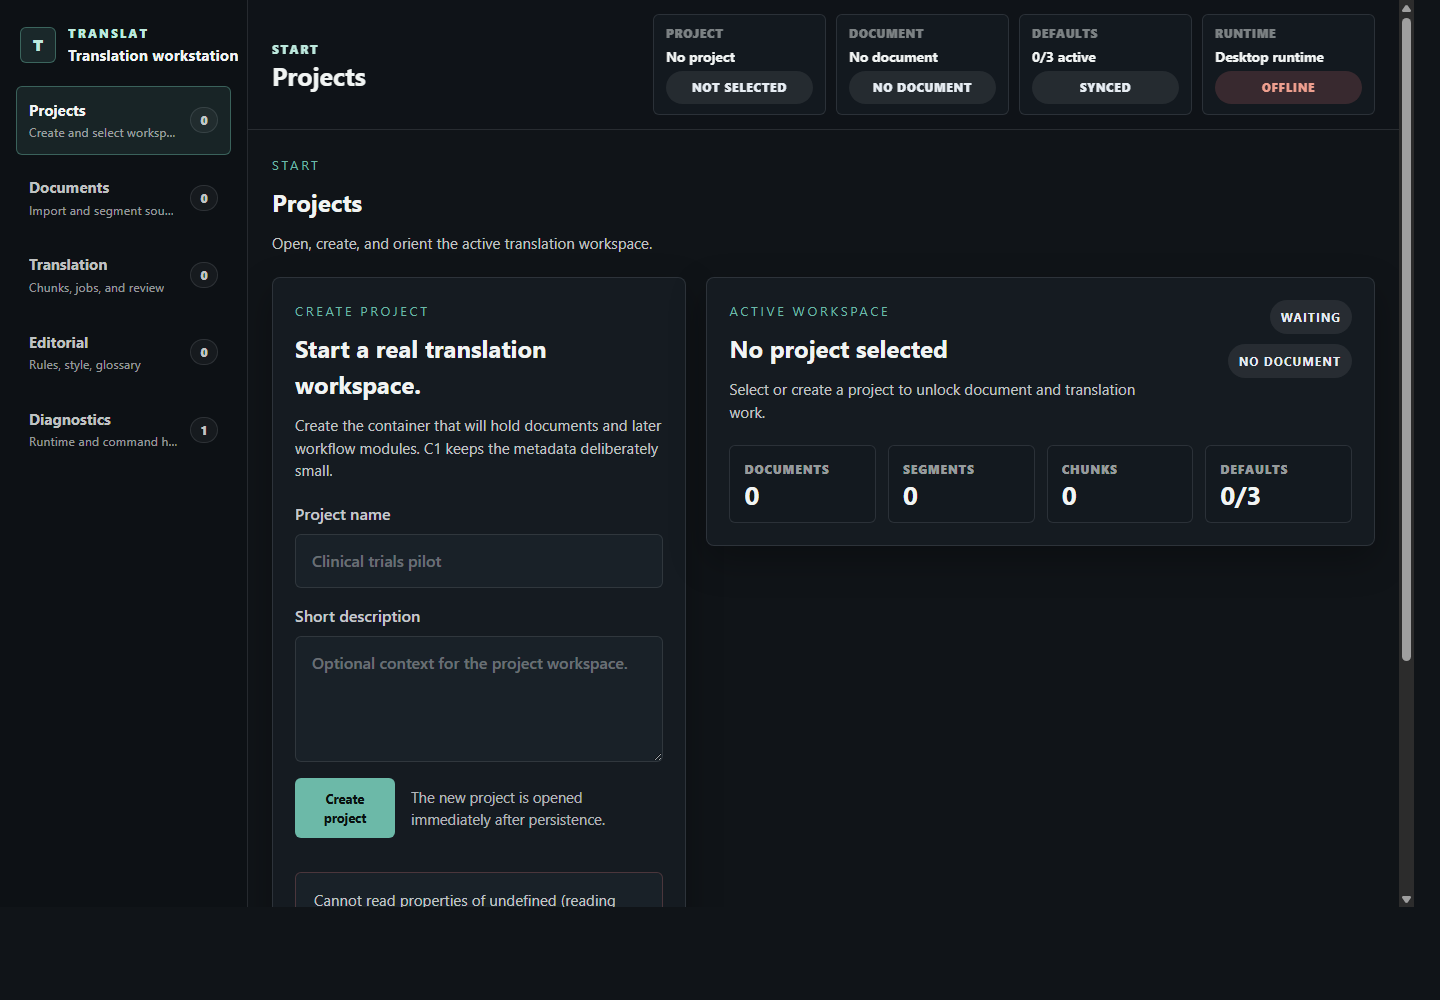
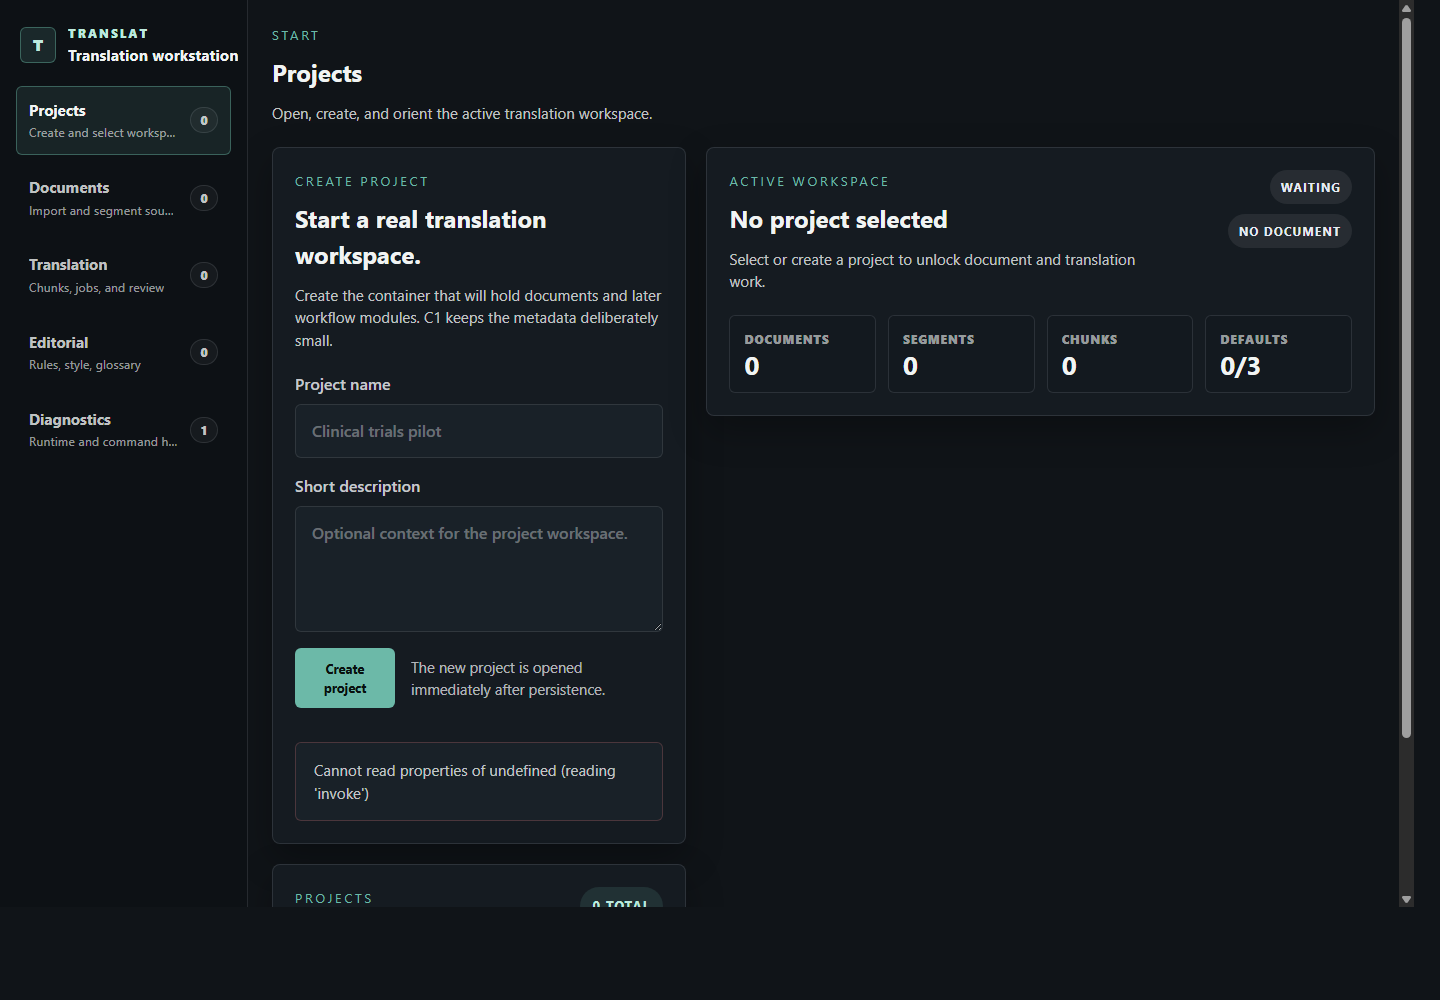
Remove TR-34 shell context noise

diff --git a/src/frontend/styles.css b/src/frontend/styles.css
@@ -80,6 +80,7 @@ select {
 }
 
 .surface-card {
+  min-width: 0;
   border: 1px solid var(--color-border-default);
   border-radius: var(--radius-lg);
   background: var(--color-bg-elevated);
@@ -131,6 +132,7 @@ select {
   margin: 12px 0 0;
   color: var(--color-text-secondary);
   font-size: var(--font-size-body);
+  overflow-wrap: anywhere;
 }
 
 .panel-header__aside {
@@ -151,6 +153,7 @@ select {
 .surface-card__copy {
   margin: 16px 0 0;
   color: var(--color-text-secondary);
+  overflow-wrap: anywhere;
 }
 
 .surface-card--accent {
@@ -288,46 +291,6 @@ select {
   text-align: center;
 }
 
-.app-shell__runtime {
-  display: flex;
-  gap: 10px;
-  align-items: center;
-  min-width: 0;
-  padding: 14px 4px 0;
-  border-top: 1px solid var(--color-border-default);
-  color: var(--color-text-secondary);
-}
-
-.app-shell__runtime strong,
-.app-shell__runtime small {
-  display: block;
-  overflow: hidden;
-  text-overflow: ellipsis;
-  white-space: nowrap;
-}
-
-.app-shell__runtime strong {
-  color: var(--color-text-primary);
-  font-size: 0.86rem;
-}
-
-.app-shell__runtime small {
-  color: var(--color-text-muted);
-  font-size: 0.76rem;
-}
-
-.app-shell__runtime-dot {
-  width: 9px;
-  height: 9px;
-  flex: 0 0 auto;
-  border-radius: 999px;
-  background: var(--color-danger);
-}
-
-.app-shell__runtime-dot[data-online="true"] {
-  background: var(--color-success);
-}
-
 .app-shell__main {
   min-width: 0;
 }
@@ -336,12 +299,8 @@ select {
   position: sticky;
   top: 0;
   z-index: 5;
-  display: grid;
-  grid-template-columns: minmax(180px, 0.5fr) minmax(0, 1fr);
-  gap: 20px;
-  align-items: center;
-  min-height: 88px;
-  padding: 14px 24px;
+  min-height: 72px;
+  padding: 16px 24px;
   border-bottom: 1px solid var(--color-border-default);
   background: rgba(16, 20, 24, 0.96);
 }
@@ -360,51 +319,17 @@ select {
   text-transform: uppercase;
 }
 
-.app-shell__context-strip {
-  display: grid;
-  grid-template-columns: repeat(4, minmax(0, 1fr));
-  gap: 10px;
-}
-
-.app-shell__context-item {
-  display: grid;
-  min-width: 0;
-  gap: 4px;
-  padding: 10px 12px;
-  border: 1px solid var(--color-border-default);
-  border-radius: var(--radius-md);
-  background: var(--color-bg-panel-quiet);
-}
-
-.app-shell__context-item span,
-.app-shell__context-item strong {
-  overflow: hidden;
-  text-overflow: ellipsis;
-  white-space: nowrap;
-}
-
-.app-shell__context-item > span {
-  color: var(--color-text-subtle);
-  font-size: 0.72rem;
-  font-weight: 800;
-  letter-spacing: 0.08em;
-  text-transform: uppercase;
-}
-
-.app-shell__context-item strong {
-  color: var(--color-text-primary);
-  font-size: 0.86rem;
-}
-
 .app-shell__content {
   display: grid;
   gap: 20px;
+  min-width: 0;
   width: min(100%, 1440px);
   margin: 0 auto;
   padding: 24px;
 }
 
 .app-shell__view-header {
+  min-width: 0;
   padding-bottom: 2px;
 }
 
@@ -1648,17 +1573,8 @@ select {
     overflow-x: auto;
   }
 
-  .app-shell__runtime {
-    margin-top: 16px;
-  }
-
   .app-shell__topbar {
     position: static;
-    grid-template-columns: 1fr;
-  }
-
-  .app-shell__context-strip {
-    grid-template-columns: repeat(2, minmax(0, 1fr));
   }
 
   .app-shell__view--projects {
@@ -1704,7 +1620,6 @@ select {
   }
 
   .app-shell__nav-list,
-  .app-shell__context-strip,
   .app-shell__metric-grid {
     grid-template-columns: 1fr;
   }
@@ -1712,6 +1627,11 @@ select {
   .app-shell__topbar,
   .app-shell__content {
     padding: 16px;
+  }
+
+  .app-shell__content {
+    margin: 0;
+    max-width: 390px;
   }
 
   .surface-card {
@@ -1737,6 +1657,11 @@ select {
   .project-list__item-heading {
     flex-direction: column;
     align-items: flex-start;
+  }
+
+  .app-shell__view-header .panel-header__copy,
+  .app-shell__view-header .panel-header__description {
+    max-width: calc(100vw - 32px);
   }
 
   .panel-header__aside,

diff --git a/src/frontend/app/AppShell.tsx b/src/frontend/app/AppShell.tsx
@@ -326,9 +326,6 @@ export function AppShell() {
     [openDocument, processDocument, reloadProjects],
   );
 
-  const runtimeLabel = healthcheck
-    ? `${healthcheck.environment} | v${healthcheck.version}`
-    : "Desktop runtime";
   const viewCopy = SHELL_VIEW_COPY[activeView];
   const documentStateLabel = activeDocument
     ? chunks.length > 0
@@ -349,11 +346,7 @@ export function AppShell() {
     activeProjectDefaultStyleProfile,
     activeProjectDefaultRuleSet,
   ].filter(Boolean).length;
-  const runtimeTone: BadgeTone = healthcheckError
-    ? "danger"
-    : healthcheck
-      ? "success"
-      : "warning";
+  const shouldShowTopbar = activeView !== "projects";
   const navigationItems: NavigationItem[] = [
     {
       count: projects.length,
@@ -419,70 +412,17 @@ export function AppShell() {
             </button>
           ))}
         </nav>
-
-        <div className="app-shell__runtime">
-          <span
-            className="app-shell__runtime-dot"
-            data-online={Boolean(healthcheck)}
-          />
-          <div>
-            <strong>{runtimeLabel}</strong>
-            <small>Last check {formatCheckedAt(healthcheck?.checkedAt)}</small>
-          </div>
-        </div>
       </aside>
 
       <section className="app-shell__main">
-        <header className="app-shell__topbar">
-          <div className="app-shell__route">
-            <span>{viewCopy.eyebrow}</span>
-            <h1>{viewCopy.title}</h1>
-          </div>
-
-          <section
-            className="app-shell__context-strip"
-            aria-label="Workspace context"
-          >
-            <div className="app-shell__context-item">
-              <span>Project</span>
-              <strong>{activeProject?.name ?? "No project"}</strong>
-              <StatusBadge
-                tone={activeProject ? "success" : "neutral"}
-                size="sm"
-              >
-                {activeProject ? "Open" : "Not selected"}
-              </StatusBadge>
+        {shouldShowTopbar ? (
+          <header className="app-shell__topbar">
+            <div className="app-shell__route">
+              <span>{viewCopy.eyebrow}</span>
+              <h1>{viewCopy.title}</h1>
             </div>
-            <div className="app-shell__context-item">
-              <span>Document</span>
-              <strong>{activeDocument?.name ?? "No document"}</strong>
-              <StatusBadge tone={documentStateTone} size="sm">
-                {documentStateLabel}
-              </StatusBadge>
-            </div>
-            <div className="app-shell__context-item">
-              <span>Defaults</span>
-              <strong>{activeDefaultsCount}/3 active</strong>
-              <StatusBadge
-                tone={hasUnsavedProjectDefaults ? "warning" : "neutral"}
-                size="sm"
-              >
-                {hasUnsavedProjectDefaults ? "Unsaved" : "Synced"}
-              </StatusBadge>
-            </div>
-            <div className="app-shell__context-item">
-              <span>Runtime</span>
-              <strong>{runtimeLabel}</strong>
-              <StatusBadge tone={runtimeTone} size="sm">
-                {isLoadingHealthcheck
-                  ? "Checking"
-                  : healthcheck
-                    ? "Online"
-                    : "Offline"}
-              </StatusBadge>
-            </div>
-          </section>
-        </header>
+          </header>
+        ) : null}
 
         <section className="app-shell__content">
           <div className="app-shell__view-header">

diff --git a/docs/product/TR-34-visual-validation.md b/docs/product/TR-34-visual-validation.md
@@ -31,14 +31,14 @@ Validation date: 2026-04-21.
 The browser preview renders the redesigned shell without a blank screen at desktop and mobile sizes. Because this is a web preview, desktop commands fail without the Tauri bridge; the first screen still surfaces a raw command failure inside the project form area. That is a browser-runtime limitation already visible in TR-29 and not evidence of the native command path.
 
 Desktop viewport:
-- Left navigation, top context strip, project composer, and active workspace overview are visible in the first viewport.
+- Left navigation, project composer, and active workspace overview are visible in the first viewport.
 - Primary hierarchy is readable: `Projects` route, project creation, active workspace summary.
 - No obvious text overlap in the captured viewport.
 - The page scrolls vertically; lower form error content is partly below the first viewport.
 
 Mobile viewport:
 - Navigation collapses into a vertical stacked layout.
-- Brand, nav entries, runtime status, route title, and first context card remain readable.
+- Brand, nav entries, route title, and project creation flow remain readable.
 - No obvious horizontal clipping in the captured viewport.
 - The content requires vertical scrolling, which is expected for the current shell structure.
 
